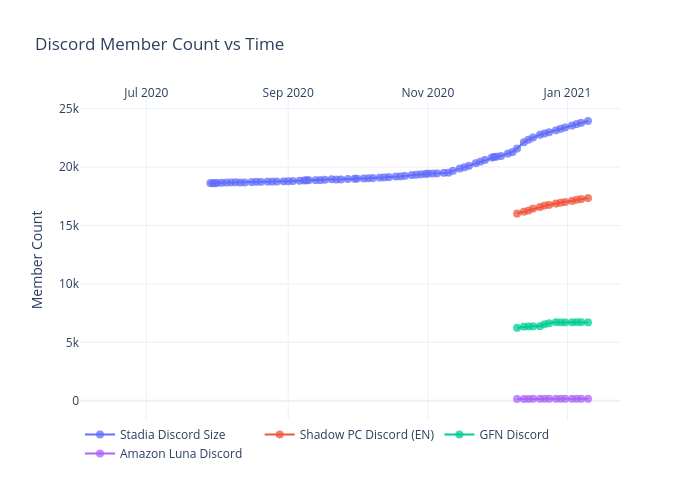
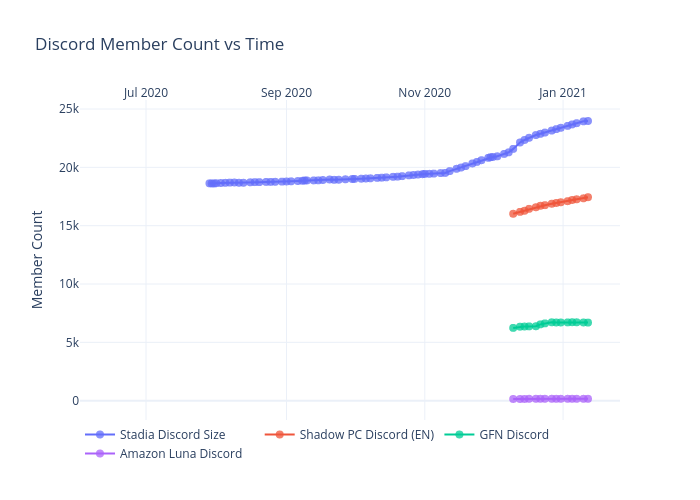
Add files via upload

diff --git a/discord/figure.js b/discord/figure.js
@@ -184,7 +184,8 @@ var figure = {
                 "23551",
                 "23679",
                 "23786",
-                "23944"
+                "23944",
+                "23972"
             ],
             "marker": {
                 "size": 8,
@@ -377,7 +378,8 @@ var figure = {
                 "17100",
                 "17201",
                 "17261",
-                "17346"
+                "17346",
+                "17442"
             ],
             "marker": {
                 "size": 8,
@@ -570,7 +572,8 @@ var figure = {
                 "6711",
                 "6726",
                 "6720",
-                "6705"
+                "6705",
+                "6696"
             ],
             "marker": {
                 "size": 8,
@@ -763,7 +766,8 @@ var figure = {
                 "163",
                 "163",
                 "162",
-                "163"
+                "163",
+                "162"
             ],
             "marker": {
                 "size": 8,
@@ -781,8 +785,8 @@ var figure = {
             "side": "top",
             "type": "date",
             "range": [
-                "2020-06-03 03:20:50.1412",
-                "2021-01-22 20:39:09.8588"
+                "2020-06-03 00:22:46.0079",
+                "2021-01-24 23:37:13.9921"
             ],
             "title": {
                 "text": ""
@@ -792,8 +796,8 @@ var figure = {
         "yaxis": {
             "type": "linear",
             "range": [
-                -1556.7938381802478,
-                25646.79383818025
+                -1558.7972934062773,
+                25676.79729340628
             ],
             "title": {
                 "text": "Member Count"
